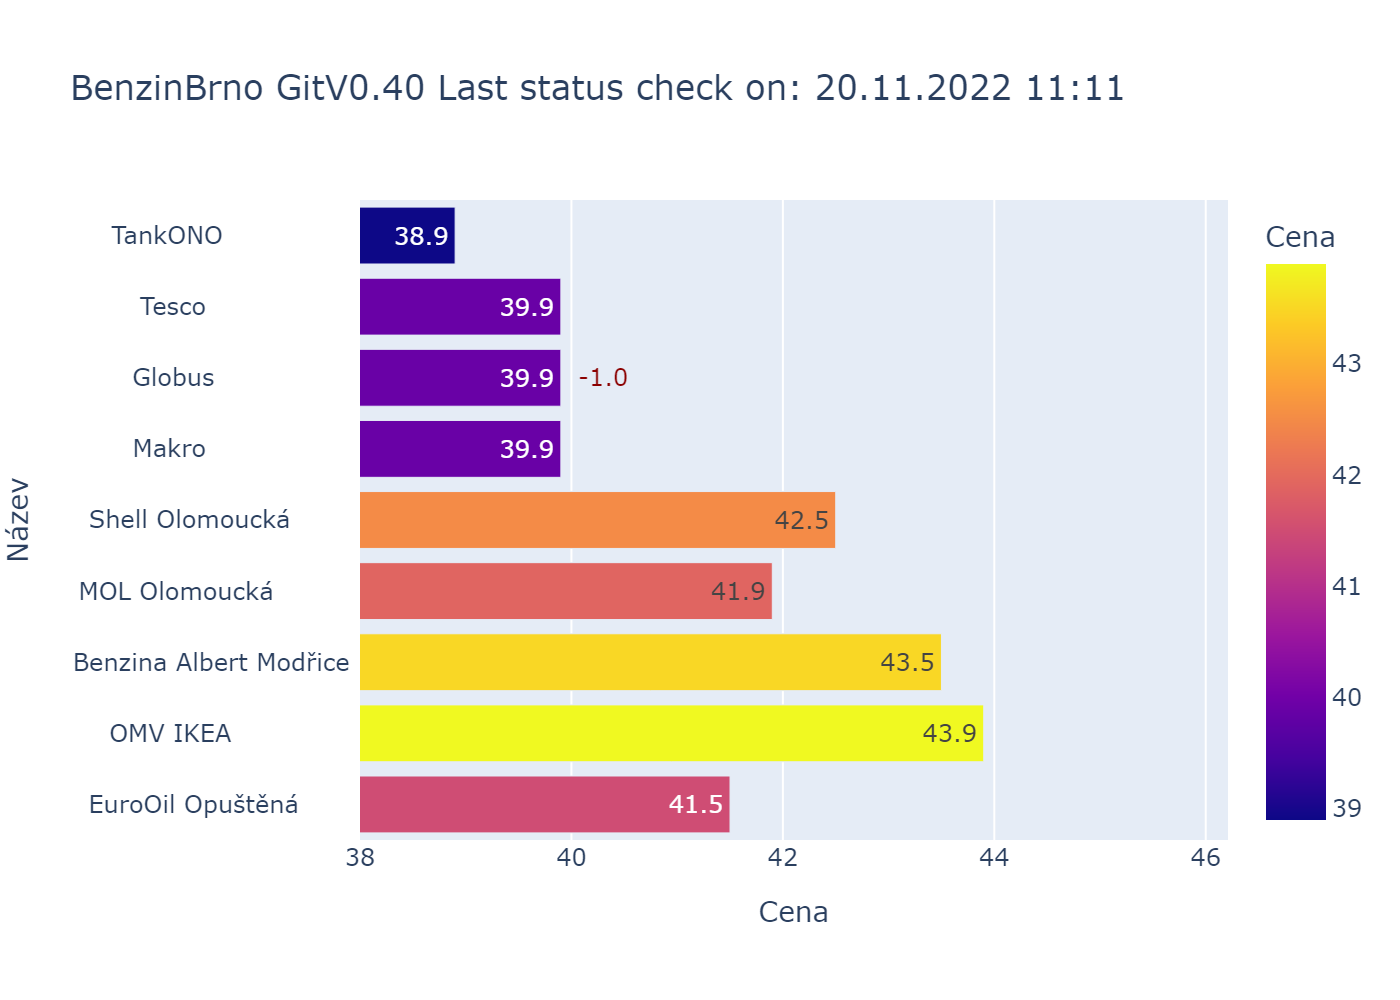
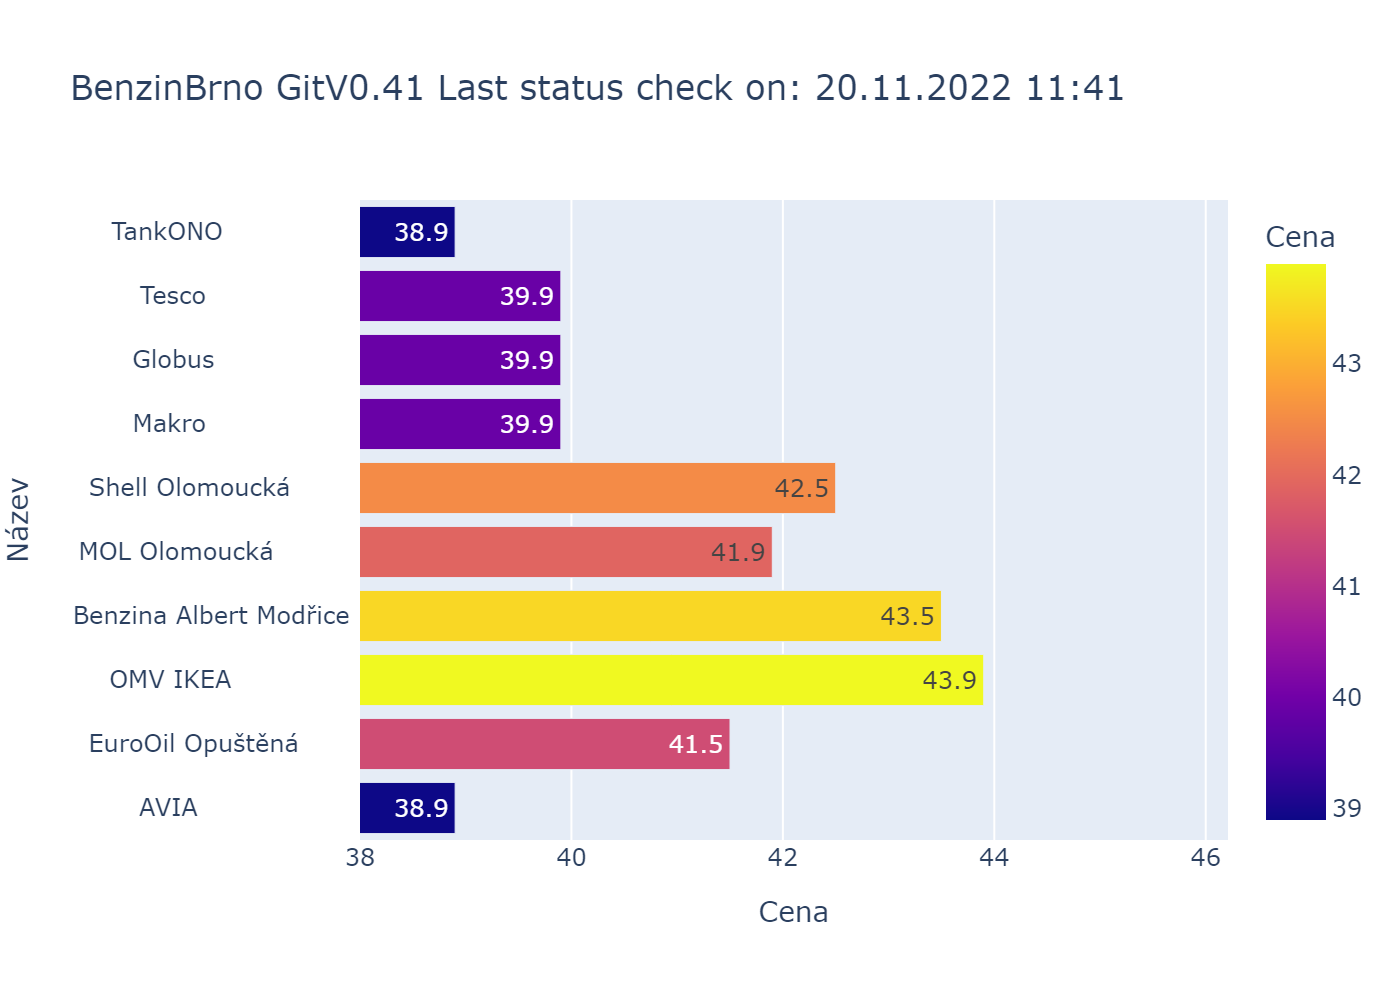
AVIA

diff --git a/bbLST.py b/bbLST.py
@@ -33,6 +33,7 @@ bbBenzinky = [
     ['Benzina Albert Modřice ', 'tF(tmBenz(s))', 'tF(tmBenz(s))', r'https://bit.ly/3ltfpd1'],
     ['OMV IKEA               ', 'tF(tMappy(s))', 'tF(tMappy(s))', r'https://mapy.cz/s/jatejehoda'],
     ['EuroOil Opuštěná       ', 'tF(tMappy(s))', 'tF(tMappy(s))', r'https://mapy.cz/s/cutobofugo'],
+    ['AVIA                   ', 'tF(tMappy(s))', 'tF(tMappy(s))', r'https://mapy.cz/s/mogofetafo'],
 ]
 
 # main

diff --git a/bbCFG.py b/bbCFG.py
@@ -3,7 +3,7 @@
 
 # Globalni promenne
 bbNmBB = 'BenzinBrno '
-bbNmVR = 0.40
+bbNmVR = 0.41
 # bbNmVE = 'v' + str(bbNmVR).format()
 bbNmVE = 'GitV' + '{:.2f}'.format(bbNmVR)
 bbNmDE = ' - Natural 95 prices in Brno - Python Version'
